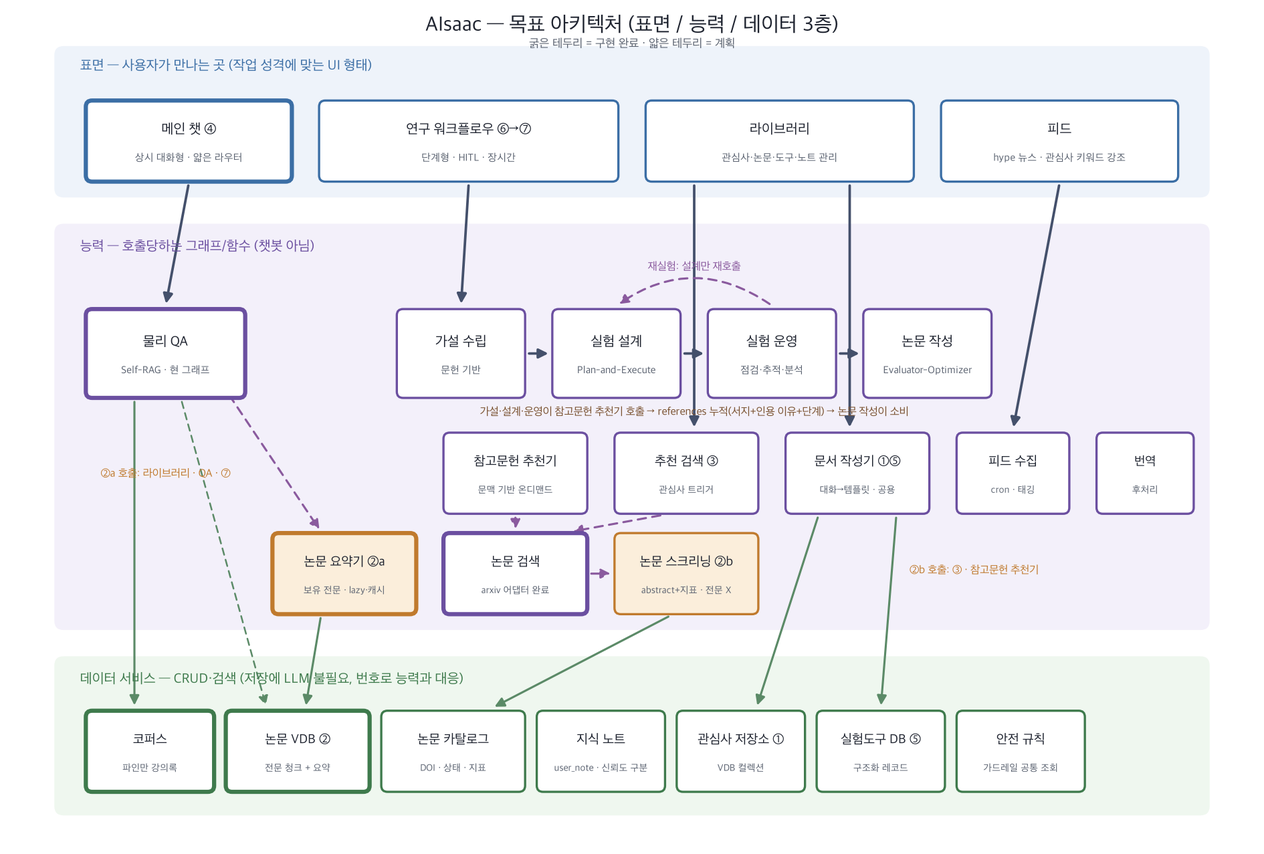
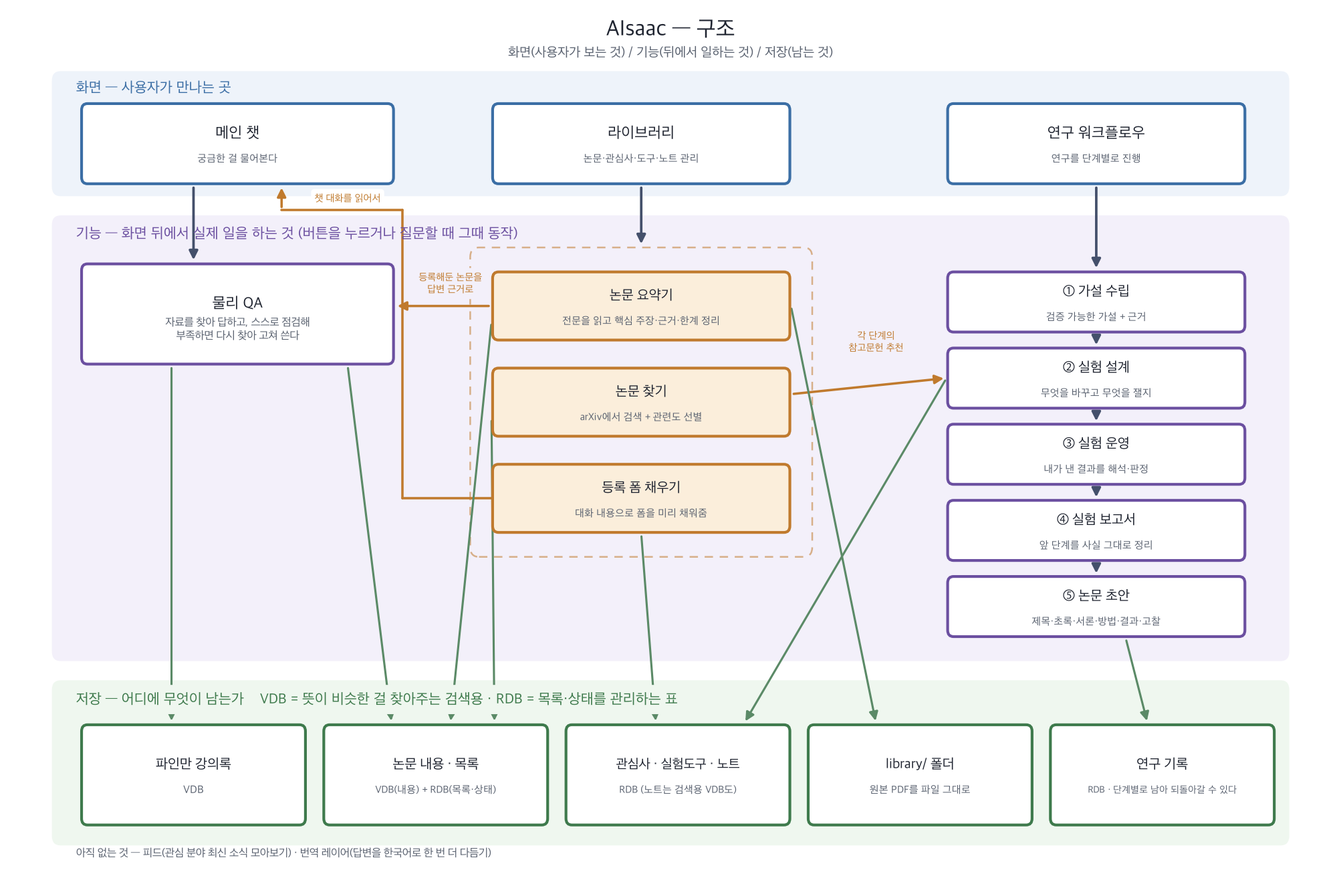
docs: 구조도 재작성 — 백엔드 현재 상태 반영 + 배치·용어 정리
사용자 지적으로 전면 재작성. 그림이 백엔드와 어긋난 지 오래였다.

사실관계 오류 3건을 고쳤다:
- 관심사 저장소가 "VDB 컬렉션"으로 그려져 있었으나 실제로는 RDB(SQLite)다
  (07-28에 VDB→RDB로 옮긴 결정이 그림에 안 내려왔다)
- "안전 규칙" 별도 저장소는 존재하지 않는다 — 08-02에 실험도구의
  precautions 필드로 통합됐는데 박스가 그대로 남아 있었다
- 연구 워크플로우가 5단계인데 4개만 그려져 있었다(실험 보고서 누락)

이번 파일 경로 추적 재설계도 반영 — library/ 폴더(원본 PDF를 파일 그대로)를
저장 층에 추가했다.

배치를 바꾼 이유:
- 라이브러리를 가운데로 옮겼다. 라이브러리의 기능(논문 요약기·논문 찾기·등록
  폼 채우기)은 메인 챗과 연구 워크플로우가 같이 쓰는 공용 부품인데, 오른쪽
  끝에 있으면 그 공용 관계를 그리는 선이 화면을 가로질러야 했다.
- 연구 워크플로우 5단계를 세로로 쌓았다. 가로로 늘어놓으면 그것만으로 가로폭을
  다 먹어 라이브러리가 쓸 자리가 없어진다(사용자 지적).
- 참고문헌 추천기 카드를 없앴다. 실제로는 "논문 찾기"와 같은 기능을 관심사
  검색과 참고문헌 추천 양쪽에서 쓰는 것이라, 별도 카드 대신 한 박스에서
  양쪽으로 화살표를 뻗는 게 맞다. 논문 검색/스크리닝도 항상 붙어 도는
  한 동작이라 "논문 찾기" 하나로 합쳤다(요약기와 겹쳐 보이던 문제도 해소 —
  요약기는 등록된 논문 전문, 찾기는 후보 abstract로 역할이 갈린다).
- 물리 QA → 논문 요약기 화살표를 뺐다. graph.retrieve()가 요약 없는 논문을
  만나면 백그라운드 생성을 걸긴 하지만 부수효과라 주 흐름으로 그릴 게 아니고,
  의미 있는 방향은 그 반대(요약기 → QA 답변 근거)다.

용어도 일반 사용자 기준으로 바꿨다 — 표면/능력/데이터 → 화면/기능/저장,
"코퍼스" → "파인만 강의록", "저장소"와 "DB" 혼용을 없애고 각 저장 박스에
VDB(뜻이 비슷한 걸 찾는 검색용)/RDB(목록·상태 표)를 명시했다.

렌더 후 실제 그림을 보며 3회 수정 — 밴드 제목이 박스에 가리던 것, 초록
화살표끼리 엉키던 것, library/ 폴더로 가는 선이 박스를 관통하던 것.
겹치는 설명 문구는 좌표를 계속 맞추는 대신 배경(bbox)을 깔아 해결했다.

diff --git a/docs/draw_architecture.py b/docs/draw_architecture.py
@@ -1,19 +1,21 @@
 # -*- coding: utf-8 -*-
-"""docs/architecture.png 생성 스크립트 — 표면/능력/데이터 3층 아키텍처 다이어그램.
+"""docs/architecture.png 생성 스크립트 — 화면/기능/저장 3층 구조도.
 
-설계가 바뀌면 이 파일의 box(...) 정의만 고치고 다시 실행한다:
+구조가 바뀌면 이 파일의 box(...) 정의만 고치고 다시 실행한다:
     uv run docs/draw_architecture.py
 
---- 배치 규칙 (화살표가 박스에 가려지지 않게 하는 이유) ---
-박스는 zorder=3, 화살표는 zorder=2라 둘이 겹치면 화살표가 숨는다. 그래서 좌표를
-아무렇게나 두면 "그린 줄 알았는데 안 보이는" 선이 생긴다(실제로 겪음). 두 가지 규칙:
-
-1. 능력 층을 두 줄로 나눈다 — 위(Row B1)에 소비자(참고문헌 추천기·추천 검색 ③),
-   바로 아래(Row B2)에 그들이 공유하는 부품(논문 검색·스크리닝 ②b). 호출 관계가
-   위→아래 짧은 화살표가 되어 다른 박스를 가로지를 일이 없다. 예전엔 이 다섯 개가
-   한 줄에 있어서 ③ → ②b 화살표가 사이에 낀 박스 두 개를 관통해 안 보였다.
-2. 층을 가로지르는 세로 화살표는 윗줄 박스 "사이 틈"으로 지나가게 x를 잡는다
-   (예: 라이브러리 → 문서 작성기는 실험 운영과 논문 작성 사이 x≈108로 내려간다).
+--- 배치 규칙 (왜 이렇게 놓았는가) ---
+1. **라이브러리를 가운데 둔다.** 라이브러리의 기능(논문 요약기·논문 찾기·등록 폼
+   채우기)은 메인 챗과 연구 워크플로우 양쪽이 같이 쓰는 공용 부품이다. 가운데 두면
+   양쪽으로 가는 화살표가 전부 짧아진다 — 예전엔 라이브러리가 오른쪽 끝에 있어서
+   공용 관계를 그리려면 화면을 가로지르는 긴 선이 필요했다.
+2. **연구 워크플로우 5단계는 세로로 쌓는다.** 가로로 늘어놓으면 그것만으로 가로폭을
+   다 먹어서 다른 기둥이 쓸 자리가 없어진다(가로 배치였던 예전 그림의 문제).
+3. **세로 화살표는 기둥 사이 "복도"로 지나가게 x를 잡는다.** 기둥은 zorder=3,
+   화살표는 zorder=2라 겹치면 화살표가 박스 뒤로 숨는다. 복도는 x≈52~66과
+   x≈106~128 두 곳.
+4. **가로 화살표는 세로로 쌓인 박스들의 "틈" y로 지나가게 한다.** 워크플로우 단계
+   사이 틈이 그 통로다.
 
 한글 폰트가 필요하다. FONT_CANDIDATES를 환경에 맞게 바꿀 것.
 """
@@ -40,14 +42,17 @@ else:
 
 OUT = os.path.join(os.path.dirname(os.path.abspath(__file__)), "architecture.png")
 
-C_SURF_BAND = "#EEF3FA"; C_SURF_EDGE = "#3B6EA5"
-C_CAP_BAND  = "#F3F0FA"; C_CAP_EDGE  = "#6B4FA0"
-C_DATA_BAND = "#EFF7EF"; C_DATA_EDGE = "#3E7A4C"
-C_HUB       = "#FBEEDB"; C_HUB_EDGE  = "#C07A2D"
-C_TEXT = "#1F2430"; C_SUB = "#5A6270"; C_DASH = "#8A5A9E"; C_DATA_ARROW = "#5B8A67"
+C_SCREEN_BAND = "#EEF3FA"; C_SCREEN_EDGE = "#3B6EA5"
+C_FUNC_BAND   = "#F3F0FA"; C_FUNC_EDGE   = "#6B4FA0"
+C_STORE_BAND  = "#EFF7EF"; C_STORE_EDGE  = "#3E7A4C"
+C_SHARED      = "#FBEEDB"; C_SHARED_EDGE = "#C07A2D"
+C_TEXT = "#1F2430"; C_SUB = "#5A6270"
+C_FLOW = "#44506B"        # 화면 → 기능, 단계 → 단계
+C_SHARE_ARROW = "#C07A2D" # 라이브러리 기능이 다른 화면에 쓰이는 관계
+C_STORE_ARROW = "#5B8A67" # 기능 → 저장
 
-fig, ax = plt.subplots(figsize=(16, 10.8), dpi=150)
-ax.set_xlim(0, 160); ax.set_ylim(0, 108)
+fig, ax = plt.subplots(figsize=(17, 11), dpi=150)
+ax.set_xlim(0, 180); ax.set_ylim(0, 106)
 ax.axis("off")
 fig.patch.set_facecolor("white")
 
@@ -57,123 +62,149 @@ def band(x, y, w, h, fc):
                                 fc=fc, ec="none", zorder=1))
 
 
-def box(x0, x1, y0, y1, title, sub=None, ec=C_CAP_EDGE, fc="white", ts=10, ss=7.5,
-        done=False):
-    # done=True면 테두리를 굵게 — "이미 구현된 것"과 "계획"을 한눈에 구분하기 위한 표시.
-    # 색을 따로 쓰지 않는 이유: 층(표면/능력/데이터)을 이미 색으로 구분하고 있어서
-    # 색을 하나 더 얹으면 두 축이 섞여 읽기 어려워진다.
+def group_frame(x0, x1, y0, y1, ec):
+    """여러 박스를 하나의 묶음으로 보이게 하는 옅은 테두리(화살표 없이 소속만 표시)."""
+    ax.add_patch(FancyBboxPatch((x0, y0), x1 - x0, y1 - y0,
+                                boxstyle="round,pad=0.3,rounding_size=1.2",
+                                fc="none", ec=ec, lw=1.2, ls=(0, (5, 4)),
+                                alpha=0.55, zorder=1.5))
+
+
+def box(x0, x1, y0, y1, title, sub=None, ec=C_FUNC_EDGE, fc="white", ts=10, ss=7.5):
     ax.add_patch(FancyBboxPatch((x0, y0), x1 - x0, y1 - y0,
                                 boxstyle="round,pad=0.25,rounding_size=0.8",
-                                fc=fc, ec=ec, lw=3.0 if done else 1.6, zorder=3))
+                                fc=fc, ec=ec, lw=2.0, zorder=3))
     cx, cy = (x0 + x1) / 2, (y0 + y1) / 2
     if sub:
-        ax.text(cx, cy + 1.5, title, ha="center", va="center", fontsize=ts,
+        ax.text(cx, cy + 1.3, title, ha="center", va="center", fontsize=ts,
                 fontproperties=F_BOLD, color=C_TEXT, zorder=4)
-        ax.text(cx, cy - 2.2, sub, ha="center", va="center", fontsize=ss,
+        ax.text(cx, cy - 1.9, sub, ha="center", va="center", fontsize=ss,
                 fontproperties=F_REG, color=C_SUB, zorder=4)
     else:
         ax.text(cx, cy, title, ha="center", va="center", fontsize=ts,
                 fontproperties=F_BOLD, color=C_TEXT, zorder=4)
 
 
-def arrow(p0, p1, color="#44506B", lw=1.8, rad=0.0, ls="solid"):
-    ax.add_patch(FancyArrowPatch(p0, p1, arrowstyle="-|>", mutation_scale=14,
-                                 color=color, lw=lw, linestyle=ls, zorder=2,
-                                 connectionstyle=f"arc3,rad={rad}"))
+def arrow(p0, p1, color=C_FLOW, lw=1.8, ls="solid"):
+    ax.add_patch(FancyArrowPatch(p0, p1, arrowstyle="-|>", mutation_scale=13,
+                                 color=color, lw=lw, linestyle=ls, zorder=2))
 
 
-# ── 제목 + 범례
-ax.text(80, 106.0, "AIsaac — 목표 아키텍처 (표면 / 능력 / 데이터 3층)",
-        ha="center", va="center", fontsize=15, fontproperties=F_BOLD, color=C_TEXT)
-ax.text(80, 103.6, "굵은 테두리 = 구현 완료 · 얇은 테두리 = 계획",
-        ha="center", va="center", fontsize=8.5, fontproperties=F_REG, color=C_SUB)
+def label(x, y, text, color, bg, fs=7.2, bold=False):
+    """설명 문구. 배경색을 깔아 밑을 지나는 선 위에서도 읽히게 한다 — 좁은 복도에
+    글자를 넣다 보면 어떻게 좌표를 잡아도 어떤 선과는 겹치기 때문."""
+    ax.text(x, y, text, ha="center", va="center", fontsize=fs,
+            fontproperties=F_BOLD if bold else F_REG, color=color, zorder=5,
+            bbox=dict(facecolor=bg, edgecolor="none", boxstyle="round,pad=0.35"))
 
-# ── 밴드
-band(6, 84, 148, 19, C_SURF_BAND)
-band(6, 28, 148, 52, C_CAP_BAND)
-band(6, 4, 148, 20, C_DATA_BAND)
-ax.text(9, 100.2, "표면 — 사용자가 만나는 곳 (작업 성격에 맞는 UI 형태)",
-        fontsize=10, fontproperties=F_BOLD, color=C_SURF_EDGE)
-ax.text(9, 76.8, "능력 — 호출당하는 그래프/함수 (챗봇 아님)",
-        fontsize=10, fontproperties=F_BOLD, color=C_CAP_EDGE)
-ax.text(9, 20.8, "데이터 서비스 — CRUD·검색 (저장에 LLM 불필요, 번호로 능력과 대응)",
-        fontsize=10, fontproperties=F_BOLD, color=C_DATA_EDGE)
 
-# ── 표면 (y 86–96)
-box(10, 36, 86, 96, "메인 챗 ④", "상시 대화형 · 얇은 라우터", ec=C_SURF_EDGE, done=True)
-box(40, 78, 86, 96, "연구 워크플로우 ⑥→⑦", "단계형 · HITL · 장시간", ec=C_SURF_EDGE)
-box(82, 116, 86, 96, "라이브러리", "관심사·논문·도구·노트 관리", ec=C_SURF_EDGE)
-box(120, 150, 86, 96, "피드", "hype 뉴스 · 관심사 키워드 강조", ec=C_SURF_EDGE)
+def elbow(points, color=C_FLOW, lw=1.8, ls="solid"):
+    """꺾인 경로. 마지막 구간에만 화살표를 붙이고 앞 구간은 선으로 잇는다.
 
-# ── 능력 Row A — 물리 QA + 연구 워크플로우 체인 (y 58–69)
-box(10, 30, 58, 69, "물리 QA", "Self-RAG · 현 그래프", done=True)
-box(50, 66, 58, 69, "가설 수립", "문헌 기반")
-box(70, 86, 58, 69, "실험 설계", "Plan-and-Execute")
-box(90, 106, 58, 69, "실험 운영", "점검·추적·분석")
-box(110, 126, 58, 69, "논문 작성", "Evaluator-Optimizer")
+    직선으로 그으면 박스를 관통하는 연결(예: 등록 폼 채우기 → 메인 챗)을 복도로
+    돌리기 위한 것 — matplotlib의 connectionstyle은 꺾임을 한 번밖에 못 줘서
+    직접 waypoint를 찍는다.
+    """
+    for a, b in zip(points, points[1:-1]):
+        ax.plot([a[0], b[0]], [a[1], b[1]], color=color, lw=lw, ls=ls,
+                zorder=2, solid_capstyle="round")
+    arrow(points[-2], points[-1], color=color, lw=lw, ls=ls)
 
-# ── 능력 Row B1 — 소비자·독립 능력 (y 43–53)
-box(56, 74, 43, 53, "참고문헌 추천기", "문맥 기반 온디맨드", ts=9.5, ss=7)
-box(78, 96, 43, 53, "추천 검색 ③", "관심사 트리거", ts=9.5, ss=7)
-box(100, 118, 43, 53, "문서 작성기 ①⑤", "대화→템플릿 · 공용", ts=9.5, ss=7)
-box(122, 136, 43, 53, "피드 수집", "cron · 태깅", ts=9.5, ss=7)
-box(140, 152, 43, 53, "번역", "후처리", ts=9, ss=7)
 
-# ── 능력 Row B2 — 논문 처리 부품 (y 30–40). B1의 소비자 바로 아래에 둬서
-#    호출 화살표가 짧은 수직선이 되게 한다(모듈 docstring "배치 규칙" 참고)
-box(34, 52, 30, 40, "논문 요약기 ②a", "보유 전문 · lazy·캐시",
-    ec=C_HUB_EDGE, fc=C_HUB, ts=9.5, ss=7, done=True)
-box(56, 74, 30, 40, "논문 검색", "arxiv 어댑터 완료", ts=9.5, ss=7, done=True)
-box(78, 96, 30, 40, "논문 스크리닝 ②b", "abstract+지표 · 전문 X",
-    ec=C_HUB_EDGE, fc=C_HUB, ts=9.5, ss=7)
+# ── 제목
+ax.text(90, 103.5, "AIsaac — 구조", ha="center", va="center",
+        fontsize=16, fontproperties=F_BOLD, color=C_TEXT)
+ax.text(90, 100.6, "화면(사용자가 보는 것) / 기능(뒤에서 일하는 것) / 저장(남는 것)",
+        ha="center", va="center", fontsize=9.5, fontproperties=F_REG, color=C_SUB)
 
-# ── 데이터 (y 7–17) — 소비하는 능력 바로 아래에 오도록 순서를 맞춤
-box(10, 26, 7, 17, "코퍼스", "파인만 강의록", ec=C_DATA_EDGE, ts=9.5, ss=7, done=True)
-box(28, 46, 7, 17, "논문 VDB ②", "전문 청크 + 요약", ec=C_DATA_EDGE, ts=9.5, ss=7, done=True)
-box(48, 66, 7, 17, "논문 카탈로그", "DOI · 상태 · 지표", ec=C_DATA_EDGE, ts=9.5, ss=7)
-box(68, 84, 7, 17, "지식 노트", "user_note · 신뢰도 구분", ec=C_DATA_EDGE, ts=9.5, ss=7)
-box(86, 102, 7, 17, "관심사 저장소 ①", "VDB 컬렉션", ec=C_DATA_EDGE, ts=9.5, ss=7)
-box(104, 120, 7, 17, "실험도구 DB ⑤", "구조화 레코드", ec=C_DATA_EDGE, ts=9.5, ss=7)
-box(122, 138, 7, 17, "안전 규칙", "가드레일 공통 조회", ec=C_DATA_EDGE, ts=9.5, ss=7)
+# ── 밴드 (라벨은 박스 위 여백에 둔다 — 박스와 같은 y에 두면 가려진다)
+band(6, 83, 168, 15, C_SCREEN_BAND)
+band(6, 25, 168, 55, C_FUNC_BAND)
+band(6, 2, 168, 20, C_STORE_BAND)
+ax.text(9, 96.2, "화면 — 사용자가 만나는 곳", va="center",
+        fontsize=10.5, fontproperties=F_BOLD, color=C_SCREEN_EDGE, zorder=5)
+ax.text(9, 78.0, "기능 — 화면 뒤에서 실제 일을 하는 것 (버튼을 누르거나 질문할 때 그때 동작)", va="center",
+        fontsize=10.5, fontproperties=F_BOLD, color=C_FUNC_EDGE, zorder=5)
+ax.text(9, 19.9, "저장 — 어디에 무엇이 남는가    VDB = 뜻이 비슷한 걸 찾아주는 검색용 · RDB = 목록·상태를 관리하는 표",
+        va="center", fontsize=10.5, fontproperties=F_BOLD, color=C_STORE_EDGE, zorder=5,
+        bbox=dict(facecolor=C_STORE_BAND, edgecolor="none", boxstyle="round,pad=0.4"))
 
-# ── 표면 → 능력 (Row A를 가로지르는 것들은 박스 사이 틈으로 내려간다)
-arrow((23, 85.6), (20, 69.6))            # 메인 챗 → 물리 QA
-arrow((59, 85.6), (58, 69.6))            # 연구 워크플로우 → 가설 수립
-arrow((88, 85.6), (88, 53.6))            # 라이브러리 → 추천 검색 ③ (실험설계·실험운영 사이 틈)
-arrow((108, 85.6), (108, 53.6))          # 라이브러리 → 문서 작성기 (실험운영·논문작성 사이 틈)
-arrow((135, 85.6), (129, 53.6))          # 피드 → 피드 수집 (Row A 오른쪽 바깥)
+# ── 화면 (y 84.5–94)
+box(10, 52, 84.5, 94, "메인 챗", "궁금한 걸 물어본다", ec=C_SCREEN_EDGE, ts=11)
+box(66, 106, 84.5, 94, "라이브러리", "논문·관심사·도구·노트 관리", ec=C_SCREEN_EDGE, ts=11)
+box(128, 168, 84.5, 94, "연구 워크플로우", "연구를 단계별로 진행", ec=C_SCREEN_EDGE, ts=11)
 
-# ── 워크플로우 체인 + 재설계 루프
-arrow((66.4, 63.5), (69.6, 63.5))
-arrow((86.4, 63.5), (89.6, 63.5))
-arrow((106.4, 63.5), (109.6, 63.5))
-arrow((98, 69.7), (78, 69.7), color=C_DASH, ls=(0, (4, 3)), rad=0.35, lw=1.5)
-ax.text(88, 74.3, "재실험: 설계만 재호출", ha="center", fontsize=8,
-        fontproperties=F_REG, color=C_DASH)
+# ── 기능: 왼쪽 기둥 — 메인 챗이 쓰는 것
+box(10, 52, 62, 74, "물리 QA",
+    "자료를 찾아 답하고, 스스로 점검해\n부족하면 다시 찾아 고쳐 쓴다", ts=11, ss=8)
 
-# ── references 누적 리본
-ax.text(88, 55.5,
-        "가설·설계·운영이 참고문헌 추천기 호출 → references 누적(서지+인용 이유+단계) → 논문 작성이 소비",
-        ha="center", fontsize=8, fontproperties=F_REG, color="#7A5230", style="italic")
+# ── 기능: 가운데 기둥 — 라이브러리의 기능.
+# 양쪽(메인 챗·연구 워크플로우)이 같이 쓰는 공용 부품이라 일부러 가운데 둔다.
+# 소속은 화살표 대신 옅은 묶음 테두리로 표시한다 — 화살표로 그리면 이 좁은 복도에
+# 선이 세 개 더 늘어 다른 관계선과 엉킨다(1차 렌더에서 실제로 엉켰다).
+group_frame(63, 109, 38, 76, C_SHARED_EDGE)
+box(66, 106, 65, 73, "논문 요약기", "전문을 읽고 핵심 주장·근거·한계 정리",
+    ec=C_SHARED_EDGE, fc=C_SHARED, ts=10, ss=7.5)
+box(66, 106, 53, 61, "논문 찾기", "arXiv에서 검색 + 관련도 선별",
+    ec=C_SHARED_EDGE, fc=C_SHARED, ts=10, ss=7.5)
+box(66, 106, 41, 49, "등록 폼 채우기", "대화 내용으로 폼을 미리 채워줌",
+    ec=C_SHARED_EDGE, fc=C_SHARED, ts=10, ss=7.5)
 
-# ── Row B1 → Row B2 (소비자 → 공유 부품) + 부품 내부 체인
-arrow((65, 42.6), (65, 40.4), color=C_DASH, ls=(0, (4, 3)), lw=1.5)   # 참고문헌 추천기 → 논문 검색
-arrow((84, 42.6), (72, 40.4), color=C_DASH, ls=(0, (4, 3)), lw=1.5)   # 추천 검색 ③ → 논문 검색
-arrow((74.4, 35), (77.6, 35), color=C_DASH, ls=(0, (4, 3)), lw=1.5)   # 논문 검색 → ②b 스크리닝
-arrow((28, 58.4), (40, 40.4), color=C_DASH, ls=(0, (4, 3)), lw=1.5)   # 물리 QA → ②a (요약 필요 시)
+# ── 기능: 오른쪽 기둥 — 연구 워크플로우 5단계 (세로로 쌓아 가로폭을 아낀다)
+box(128, 168, 66, 73, "① 가설 수립", "검증 가능한 가설 + 근거", ts=10, ss=7.5)
+box(128, 168, 56.5, 63.5, "② 실험 설계", "무엇을 바꾸고 무엇을 잴지", ts=10, ss=7.5)
+box(128, 168, 47, 54, "③ 실험 운영", "내가 낸 결과를 해석·판정", ts=10, ss=7.5)
+box(128, 168, 37.5, 44.5, "④ 실험 보고서", "앞 단계를 사실 그대로 정리", ts=10, ss=7.5)
+box(128, 168, 28, 35, "⑤ 논문 초안", "제목·초록·서론·방법·결과·고찰", ts=10, ss=7.5)
 
-ax.text(20, 47.5, "②a 호출: 라이브러리 · QA · ⑦", ha="center", fontsize=8,
-        fontproperties=F_REG, color=C_HUB_EDGE)
-ax.text(124, 35, "②b 호출: ③ · 참고문헌 추천기", ha="center", fontsize=8,
-        fontproperties=F_REG, color=C_HUB_EDGE)
+# ── 저장 (y 4.5–16.5). 순서는 "그걸 쓰는 기능 바로 아래"가 되게 잡는다 —
+# 그래야 초록 화살표가 다른 기둥을 관통하지 않는다.
+box(10, 40, 4.5, 16.5, "파인만 강의록", "VDB", ec=C_STORE_EDGE, ts=10, ss=8)
+box(43, 73, 4.5, 16.5, "논문 내용 · 목록", "VDB(내용) + RDB(목록·상태)",
+    ec=C_STORE_EDGE, ts=10, ss=7.5)
+box(76, 106, 4.5, 16.5, "관심사 · 실험도구 · 노트", "RDB (노트는 검색용 VDB도)",
+    ec=C_STORE_EDGE, ts=9.5, ss=7.5)
+box(109, 139, 4.5, 16.5, "library/ 폴더", "원본 PDF를 파일 그대로",
+    ec=C_STORE_EDGE, ts=10, ss=7.5)
+box(142, 172, 4.5, 16.5, "연구 기록", "RDB · 단계별로 남아 되돌아갈 수 있다",
+    ec=C_STORE_EDGE, ts=10, ss=7)
 
-# ── 능력 → 데이터
-arrow((16, 57.6), (16, 17.6), color=C_DATA_ARROW, lw=1.5)                   # 물리 QA → 코퍼스
-arrow((22, 57.6), (33, 17.6), color=C_DATA_ARROW, lw=1.2, ls=(0, (4, 3)))   # 물리 QA → 논문 VDB(참고 부착)
-arrow((40, 29.6), (38, 17.6), color=C_DATA_ARROW, lw=1.5)                   # ②a → 논문 VDB
-arrow((85, 29.6), (62, 17.6), color=C_DATA_ARROW, lw=1.5)                   # ②b → 논문 카탈로그
-arrow((104, 42.6), (96, 17.6), color=C_DATA_ARROW, lw=1.5)                  # 문서 작성기 → 관심사 ①
-arrow((114, 42.6), (112, 17.6), color=C_DATA_ARROW, lw=1.5)                 # 문서 작성기 → 실험도구 ⑤
+# ── 화면 → 기능
+arrow((25, 84.1), (25, 74.4))            # 메인 챗 → 물리 QA
+arrow((86, 84.1), (86, 76.4))            # 라이브러리 → 기능 묶음
+arrow((148, 84.1), (148, 73.4))          # 연구 워크플로우 → 가설 수립
+
+# ── 워크플로우 단계 체인 (세로)
+for y0, y1 in [(66, 63.5), (56.5, 54), (47, 44.5), (37.5, 35)]:
+    arrow((148, y0 - 0.3), (148, y1 + 0.3))
+
+# ── 라이브러리 기능이 다른 화면에서도 쓰인다 (기둥 사이 틈으로 지나간다)
+arrow((65.6, 69), (52.4, 69), color=C_SHARE_ARROW, lw=1.7)      # 논문 요약기 → 물리 QA
+label(60, 71.8, "등록해둔 논문을\n답변 근거로", C_SHARE_ARROW, C_FUNC_BAND)
+
+arrow((106.4, 58), (127.6, 60), color=C_SHARE_ARROW, lw=1.7)    # 논문 찾기 → 실험 설계
+label(118, 64.5, "각 단계의\n참고문헌 추천", C_SHARE_ARROW, C_FUNC_BAND)
+
+# 등록 폼 채우기 → 메인 챗: 직선으로는 물리 QA를 관통하므로 왼쪽 복도(x=53.5)로 돌린다
+elbow([(65.6, 45), (53.5, 45), (53.5, 81), (37, 81), (37, 84.1)],
+      color=C_SHARE_ARROW, lw=1.7)
+label(46, 82.4, "챗 대화를 읽어서", C_SHARE_ARROW, "white")
+
+# ── 기능 → 저장 (같은 목적지로 가는 선끼리 안 엉키게 복도 x를 나눠 쓴다)
+arrow((22, 61.6), (22, 16.9), color=C_STORE_ARROW, lw=1.5)      # 물리 QA → 파인만 강의록
+arrow((46, 61.6), (52, 16.9), color=C_STORE_ARROW, lw=1.5)      # 물리 QA → 논문 내용
+arrow((65.6, 67), (60, 16.9), color=C_STORE_ARROW, lw=1.5)      # 논문 요약기 → 논문 내용·목록
+arrow((65.6, 55), (66, 16.9), color=C_STORE_ARROW, lw=1.5)      # 논문 찾기 → 논문 목록
+arrow((86, 40.6), (88, 16.9), color=C_STORE_ARROW, lw=1.5)      # 등록 폼 채우기 → 관심사·도구
+# 논문 요약기 → library/ 폴더: 아래로 곧장 내리면 논문 찾기·등록 폼을 관통하므로
+# 오른쪽 복도(x 109~128)를 타고 내려간다.
+arrow((106.4, 69), (118, 16.9), color=C_STORE_ARROW, lw=1.5)
+arrow((127.6, 60), (100, 16.9), color=C_STORE_ARROW, lw=1.5)    # 실험 설계 → 실험도구 조회
+arrow((152, 27.6), (155, 16.9), color=C_STORE_ARROW, lw=1.5)    # 워크플로우 → 연구 기록
+
+# ── 각주
+ax.text(9, 0.3, "아직 없는 것 — 피드(관심 분야 최신 소식 모아보기) · 번역 레이어(답변을 한국어로 한 번 더 다듬기)",
+        fontsize=8, fontproperties=F_REG, color=C_SUB)
 
 plt.savefig(OUT, bbox_inches="tight", facecolor="white")
 print(f"saved: {OUT}")

diff --git a/docs/RoadMap.md b/docs/RoadMap.md
@@ -208,7 +208,7 @@
 | 무기한 보류 | 요약 **임베딩 텍스트** 형식 — 산문화 (검색) | **08-05 검수로 쪼갠 뒤쪽.** `_render_summary_text()`(`paper/paper_ingest.py`)가 실제로 하는 일은 표시가 아니라 **VDB에 넣을 검색 매칭용 텍스트 생성**이다(`_store_summary()`가 임베딩용으로만 호출, docstring도 그렇게 적혀 있다). 원 항목 마지막 문장("RAG 임베딩 텍스트로도 산문이 자연어 질문과 더 잘 매칭될 가능성")이 가리키던 게 이쪽. **표시 쪽과 달리 무겁다** — 형식을 바꾸면 이미 등록된 논문의 summary 문서를 전부 재색인해야 하고, 검색 품질이 실제로 나아졌는지 확인할 방법이 지금 없다. 그 측정 수단(로깅·평가셋)이 생긴 뒤에 판단 |
 | 무기한 보류 | 외부 논문 API 어댑터 | 유료 저널 대응 — Crossref(ISSN별 신착 감지), Unpaywall/CORE(OA 본문 확보), OpenAlex(인용수·권위 논문). **검색 함수 뒤의 구현 세부라 마지막에 갈아끼움** — 그 전까지는 arxiv·웹 검색으로 전 기능 완성 |
 | 무기한 보류 | tool 정비2 |  WolframAlpha 수식 검증 tool |
-| 무기한 보류 | 피드 표면 + cron 수집 | 관심사와 무관하게 hype 소식 크롤링 → 키워드 태깅 → 관심사 일치 키워드 색 강조·상단 정렬. **설계 방향은 유효하지만 후순위로 내림(07-28)** — 혼자 쓰는 규모에 크롤링 인프라와 cron 스케줄러까지 얹는 건 과하고, 지금 우선순위(논문 파이프라인·관심사·추천)와 겹치는 부분도 없다. 착수한다면 **UI 작업으로 라이브러리 표면·프론트 스택 전환과 묶어서** 진행. `docs/architecture.png`는 아직 표면 4개(피드 포함)로 그려져 있음 — 다음 아키텍처 변경 때 함께 갱신 |
+| 무기한 보류 | 피드 표면 + cron 수집 | 관심사와 무관하게 hype 소식 크롤링 → 키워드 태깅 → 관심사 일치 키워드 색 강조·상단 정렬. **설계 방향은 유효하지만 후순위로 내림(07-28)** — 혼자 쓰는 규모에 크롤링 인프라와 cron 스케줄러까지 얹는 건 과하고, 지금 우선순위(논문 파이프라인·관심사·추천)와 겹치는 부분도 없다. 착수한다면 **UI 작업으로 라이브러리 표면·프론트 스택 전환과 묶어서** 진행. `docs/architecture.png`는 08-05 재작성 때 피드를 그림에서 빼고 각주("아직 없는 것")로 내렸다 — 착수하면 박스를 다시 넣는다 |
 | 무기한 보류 |영어 버전|프롬프트 영어로 해서 영어입/출력 버전 만들고, 프론트 인터페이스도 영어버전으로 해서 설정에서 영어/한글, 다크모드/라이트모드, 업데이트 확인, 깃주소, 도움말, 모델 설정 만들기|
 | 무기한 보류 | 자체 서빙 엔진 만들기 | GGUF 추론을 llama-server에 맡기지 않고 직접 구현(토크나이징·배칭·KV 캐시 등), 원본(llama-server 서빙) 대비 정확도·속도를 evaluate로 비교. 에이전트 서빙(운영) 학습이 목적 |
 

diff --git a/README.md b/README.md
@@ -24,7 +24,9 @@
 
 **화면(표면) / 기능(능력) / 저장소** 3층으로 나뉜다.
 
-![표면/능력/데이터 3층 아키텍처](docs/architecture.png)
+![화면/기능/저장 3층 구조](docs/architecture.png)
+
+> 그림은 `uv run docs/draw_architecture.py`로 다시 만든다 (`docs/draw_architecture.py`의 박스 정의만 고치면 된다).
 
 핵심 원칙: **챗봇을 여러 개로 쪼개지 않고, 작업 성격에 맞는 화면을 준다** — 대화는 챗, 등록·조회는 폼, 연구는 단계형 워크플로우. 상시 대화하는 챗봇은 메인 챗 하나뿐이고 나머지는 버튼·폼을 눌렀을 때 호출되는 기능으로 존재한다.
 
@@ -81,7 +83,8 @@
 ```
 Science_Chatbot/
 ├── docs/
-│   ├── architecture.png     # 목표 아키텍처 다이어그램
+│   ├── architecture.png     # 구조도 (draw_architecture.py로 생성)
+│   ├── draw_architecture.py # 구조도 생성 스크립트
 │   ├── feynman.txt          # 코퍼스: The Feynman Lectures on Physics
 │   ├── RoadMap.md           # 개발 이력·계획 (완료/예정 + 설계 노트)
 │   ├── DEPLOY.md            # 배포 가이드 (빅뱅/Docker 방식)
